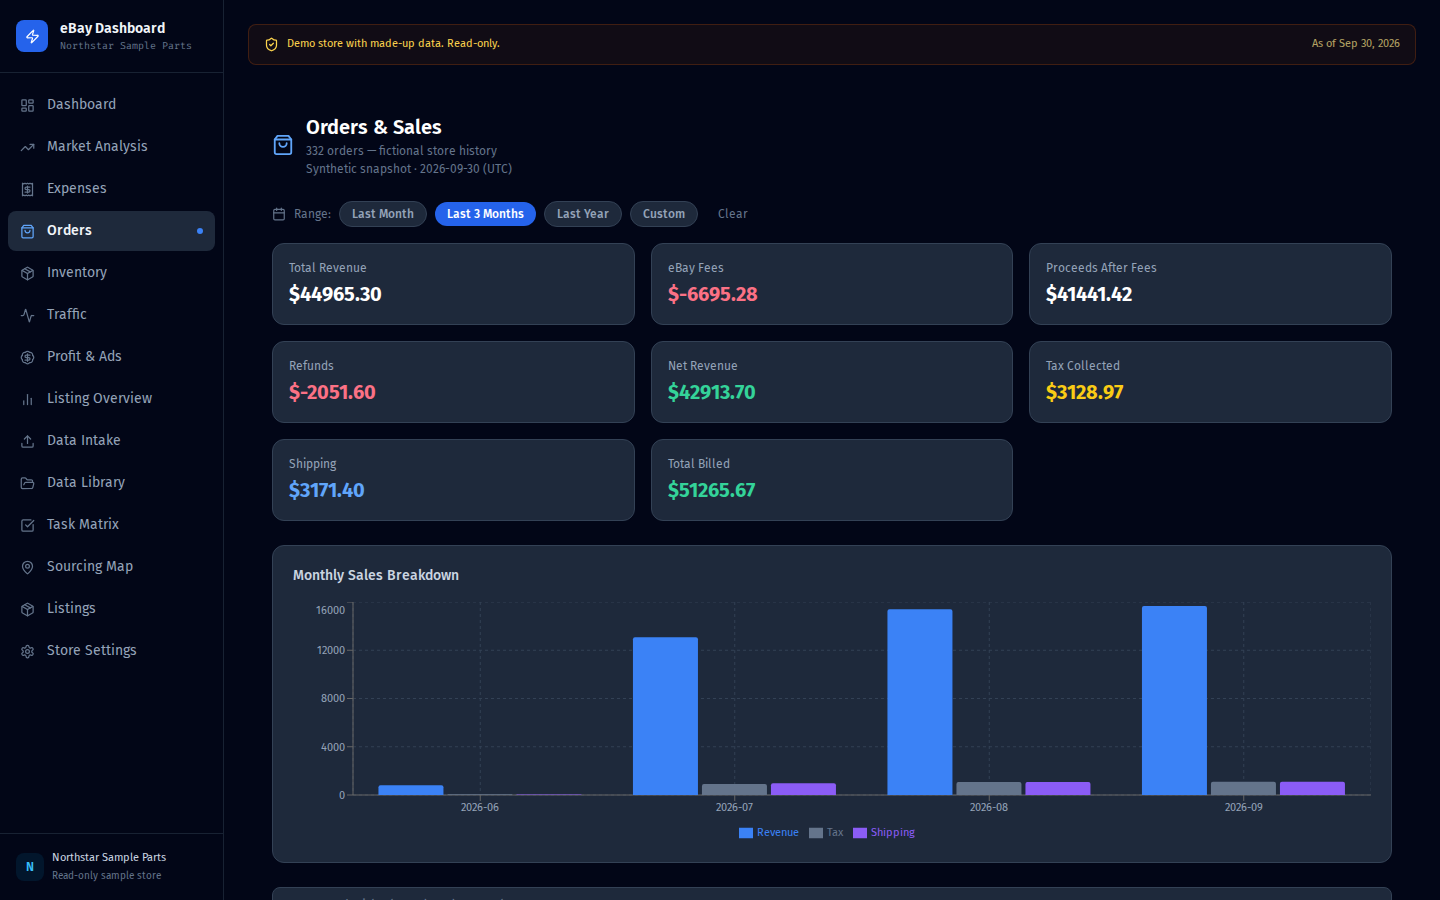
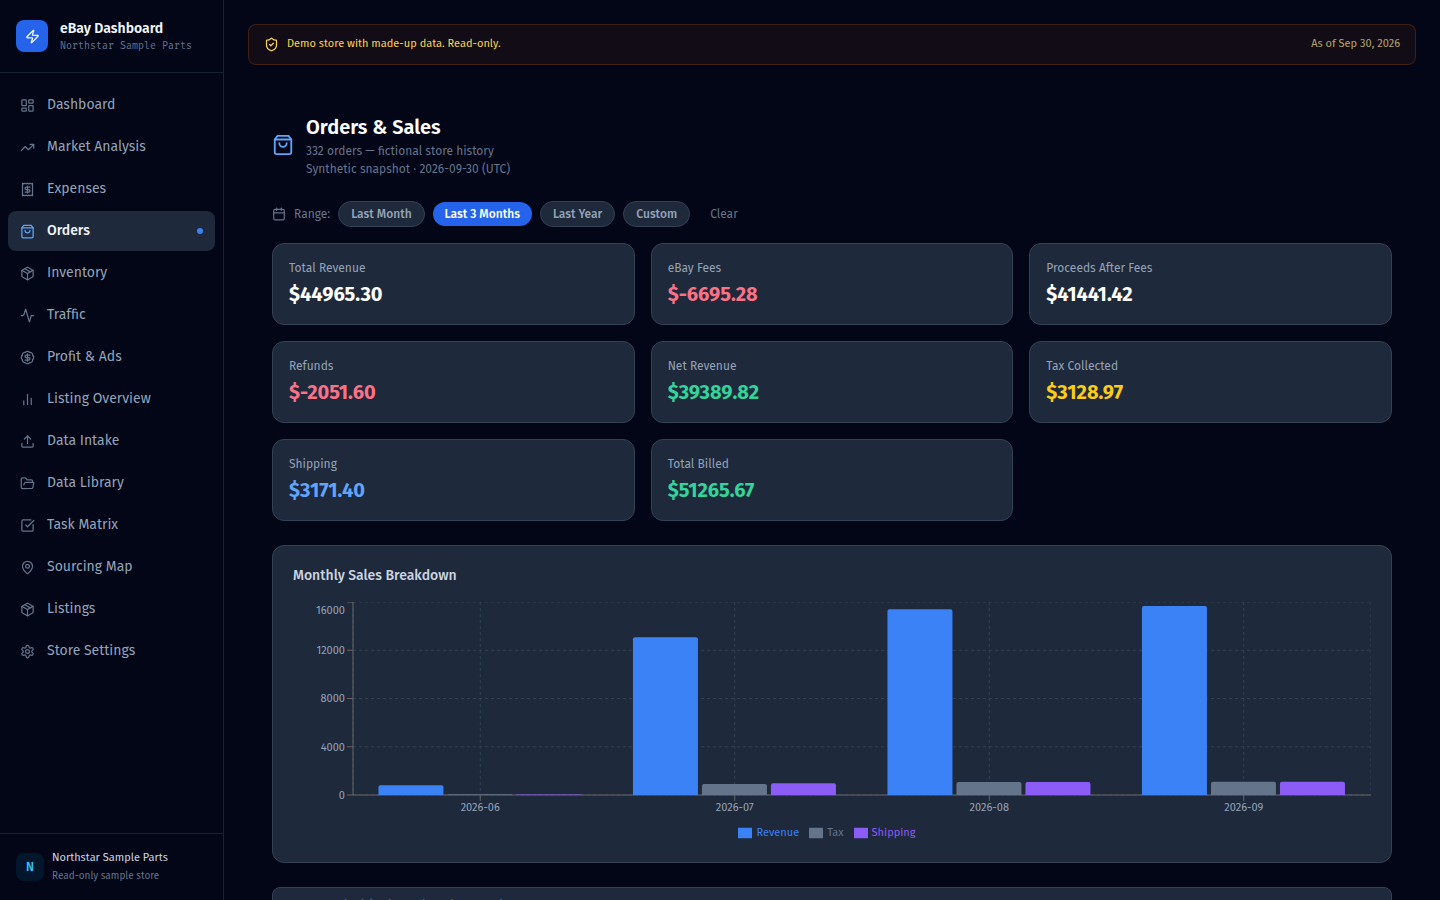
Fix Orders net revenue, Top Markets labels, and orders date range
Orders Net Revenue now uses the dashboard's definition (sale proceeds after
eBay fees minus refunds), full state names no longer overlap the Top Markets
bars, and the orders date filter reads both ends as the same calendar days.
Retakes the Orders and chat screenshots.

diff --git a/src/app/api/orders/route.ts b/src/app/api/orders/route.ts
@@ -13,14 +13,19 @@ async function handleGET(req: NextRequest) {
   const search = searchParams.get("search") ?? "";
   const dateFrom = searchParams.get("dateFrom");
   const dateTo = searchParams.get("dateTo");
+  // Both ends of the range are calendar days in the same zone: local time for
+  // the store, UTC for the demo's fixed snapshot (as /api/profitability does).
+  // A bare `new Date("YYYY-MM-DD")` would be UTC midnight, shifting the start.
+  const zone = isDemoMode() ? "Z" : "";
+  const startOf = (day: string) => new Date(`${day}T00:00:00${zone}`);
 
   // CSV sales and API orders as one list. Where both sources hold an order the
   // API row wins, so the totals here reflect eBay rather than the export --
   // see src/lib/orders/unified.ts.
   const all = filterOrders(await loadUnifiedOrders(), {
     search,
-    ...(dateFrom ? { dateFrom: new Date(dateFrom) } : {}),
-    ...(dateTo ? { dateTo: new Date(dateTo + "T23:59:59" + (isDemoMode() ? "Z" : "")) } : {}),
+    ...(dateFrom ? { dateFrom: startOf(dateFrom) } : {}),
+    ...(dateTo ? { dateTo: new Date(`${dateTo}T23:59:59${zone}`) } : {}),
   });
 
   const orders = all.slice((page - 1) * limit, page * limit);
@@ -34,8 +39,8 @@ async function handleGET(req: NextRequest) {
   // share the same date window as the order list.
   const financeWindow = (dateFrom || dateTo) ? {
     transactionDate: {
-      ...(dateFrom ? { gte: new Date(dateFrom) } : {}),
-      ...(dateTo ? { lte: new Date(dateTo + "T23:59:59.999" + (isDemoMode() ? "Z" : "")) } : {}),
+      ...(dateFrom ? { gte: startOf(dateFrom) } : {}),
+      ...(dateTo ? { lte: new Date(`${dateTo}T23:59:59.999${zone}`) } : {}),
     },
   } : {};
   const [refundRows, saleRows] = await Promise.all([

diff --git a/src/app/orders/page.tsx b/src/app/orders/page.tsx
@@ -5,6 +5,7 @@ import { storeFetch } from '@/lib/stores/browser';
 import { useState, useEffect, useCallback } from 'react';
 import { Calendar, Search, ShoppingBag } from 'lucide-react';
 import { timeAgo } from '@/lib/relative-time';
+import { orderNetRevenue } from '@/lib/orders/net-revenue';
 import { useDemoMode } from '@/components/DemoProvider';
 import { DEMO_AS_OF, DEMO_DATE } from '@/lib/demo/config';
 import {
@@ -70,6 +71,11 @@ type ApiResponse = {
 
 function fmt(n: number | null | undefined) {
   return `$${(n ?? 0).toFixed(2)}`;
+}
+
+/** Like fmt, but an unknown figure shows as a dash instead of $0.00. */
+function fmtKnown(n: number | null) {
+  return n === null ? '—' : fmt(n);
 }
 
 /**
@@ -248,7 +254,7 @@ export default function OrdersPage() {
           { label: 'eBay Fees', value: fmt(-(data?.stats.ebayFees ?? 0)), accent: 'text-rose-400' },
           { label: 'Proceeds After Fees', value: fmt(data?.stats.proceedsAfterFees ?? 0), accent: 'text-white' },
           { label: 'Refunds', value: fmt(-(data?.stats.refundTotal ?? 0)), accent: 'text-rose-400' },
-          { label: 'Net Revenue', value: fmt((data?.stats._sum.soldFor ?? 0) - (data?.stats.refundTotal ?? 0)), accent: 'text-emerald-400' },
+          { label: 'Net Revenue', value: fmtKnown(orderNetRevenue(data?.stats)), accent: 'text-emerald-400' },
           { label: 'Tax Collected', value: fmt(data?.stats._sum.eBayTax), accent: 'text-yellow-400' },
           { label: 'Shipping', value: fmt(data?.stats._sum.shipping), accent: 'text-blue-400' },
           { label: 'Total Billed', value: fmt(data?.stats._sum.totalPrice), accent: 'text-emerald-400' },

diff --git a/src/app/api/orders/route.test.ts b/src/app/api/orders/route.test.ts
@@ -46,8 +46,23 @@ describe('GET /api/orders', () => {
   it('passes the date range through to the finance query', async () => {
     await GET(req('http://localhost/api/orders?dateFrom=2026-06-01&dateTo=2026-06-30'));
     const where = financeFindMany.mock.calls[0][0].where;
-    expect(where.transactionDate.gte).toEqual(new Date('2026-06-01'));
+    expect(where.transactionDate.gte).toEqual(new Date('2026-06-01T00:00:00'));
     expect(where.transactionDate.lte).toEqual(new Date('2026-06-30T23:59:59.999'));
+  });
+
+  it('reads dateFrom and dateTo as the same local calendar days', async () => {
+    const tz = process.env.TZ;
+    process.env.TZ = 'America/New_York';
+    try {
+      await GET(req('http://localhost/api/orders?dateFrom=2026-09-01&dateTo=2026-09-30'));
+      const where = financeFindMany.mock.calls[0][0].where;
+      // Midnight Sept 1 to the last millisecond of Sept 30, US Eastern (UTC-4).
+      expect(where.transactionDate.gte.toISOString()).toBe('2026-09-01T04:00:00.000Z');
+      expect(where.transactionDate.lte.toISOString()).toBe('2026-10-01T03:59:59.999Z');
+      expect(mockFilter.mock.calls[0][1].dateFrom.toISOString()).toBe('2026-09-01T04:00:00.000Z');
+    } finally {
+      if (tz === undefined) delete process.env.TZ; else process.env.TZ = tz;
+    }
   });
 
   it('is zero, not an error, when no finance refunds exist', async () => {

diff --git a/src/lib/orders/net-revenue.ts b/src/lib/orders/net-revenue.ts
@@ -1,0 +1,21 @@
+/** Finance figures /api/orders returns alongside the order list. */
+export interface OrderFinanceStats {
+  proceedsAfterFees?: number;
+  ebayFees?: number;
+  refundTotal?: number;
+}
+
+/**
+ * Net revenue for a set of orders: eBay sale proceeds (already net of eBay
+ * fees) minus refunds. This is the same definition the dashboard and the
+ * Profit page use (`netRevenue` in src/lib/finance/summary.ts), so the
+ * Orders card agrees with them for the same period.
+ *
+ * Returns null when no finance rows were synced for the period: proceeds of 0
+ * with no fees means the ledger is missing, not that the orders earned nothing.
+ */
+export function orderNetRevenue(stats: OrderFinanceStats | undefined): number | null {
+  const proceeds = stats?.proceedsAfterFees ?? 0;
+  if (!stats || (proceeds === 0 && (stats.ebayFees ?? 0) === 0)) return null;
+  return proceeds - (stats.refundTotal ?? 0);
+}

diff --git a/src/app/page.tsx b/src/app/page.tsx
@@ -390,7 +390,7 @@ export default function Dashboard() {
                 {metrics.metrics.topStates.slice(0, 5).map((s: any, i: number) => (
                   <div key={s.state} className="flex items-center gap-2">
                     <span className="text-[10px] text-slate-500 w-4 flex-shrink-0">{i + 1}</span>
-                    <span className="text-xs font-medium text-slate-200 w-8 flex-shrink-0">{s.state}</span>
+                    <span className="text-xs font-medium text-slate-200 w-24 flex-shrink-0 truncate" title={s.state}>{s.state}</span>
                     <div className="flex-1 bg-slate-700 rounded-full h-1.5 overflow-hidden">
                       <div
                         className="h-full bg-blue-600 rounded-full"

diff --git a/src/lib/orders/net-revenue.test.ts b/src/lib/orders/net-revenue.test.ts
@@ -1,0 +1,13 @@
+import { describe, expect, it } from 'vitest';
+import { orderNetRevenue } from './net-revenue';
+
+describe('orderNetRevenue', () => {
+  it('is sale proceeds after eBay fees minus refunds, as on the dashboard', () => {
+    expect(orderNetRevenue({ proceedsAfterFees: 41441.42, ebayFees: 6695.28, refundTotal: 2051.6 })).toBeCloseTo(39389.82, 2);
+  });
+
+  it('is unknown, not a misleading negative, when no finance rows were synced', () => {
+    expect(orderNetRevenue({ proceedsAfterFees: 0, ebayFees: 0, refundTotal: 12.5 })).toBeNull();
+    expect(orderNetRevenue(undefined)).toBeNull();
+  });
+});
